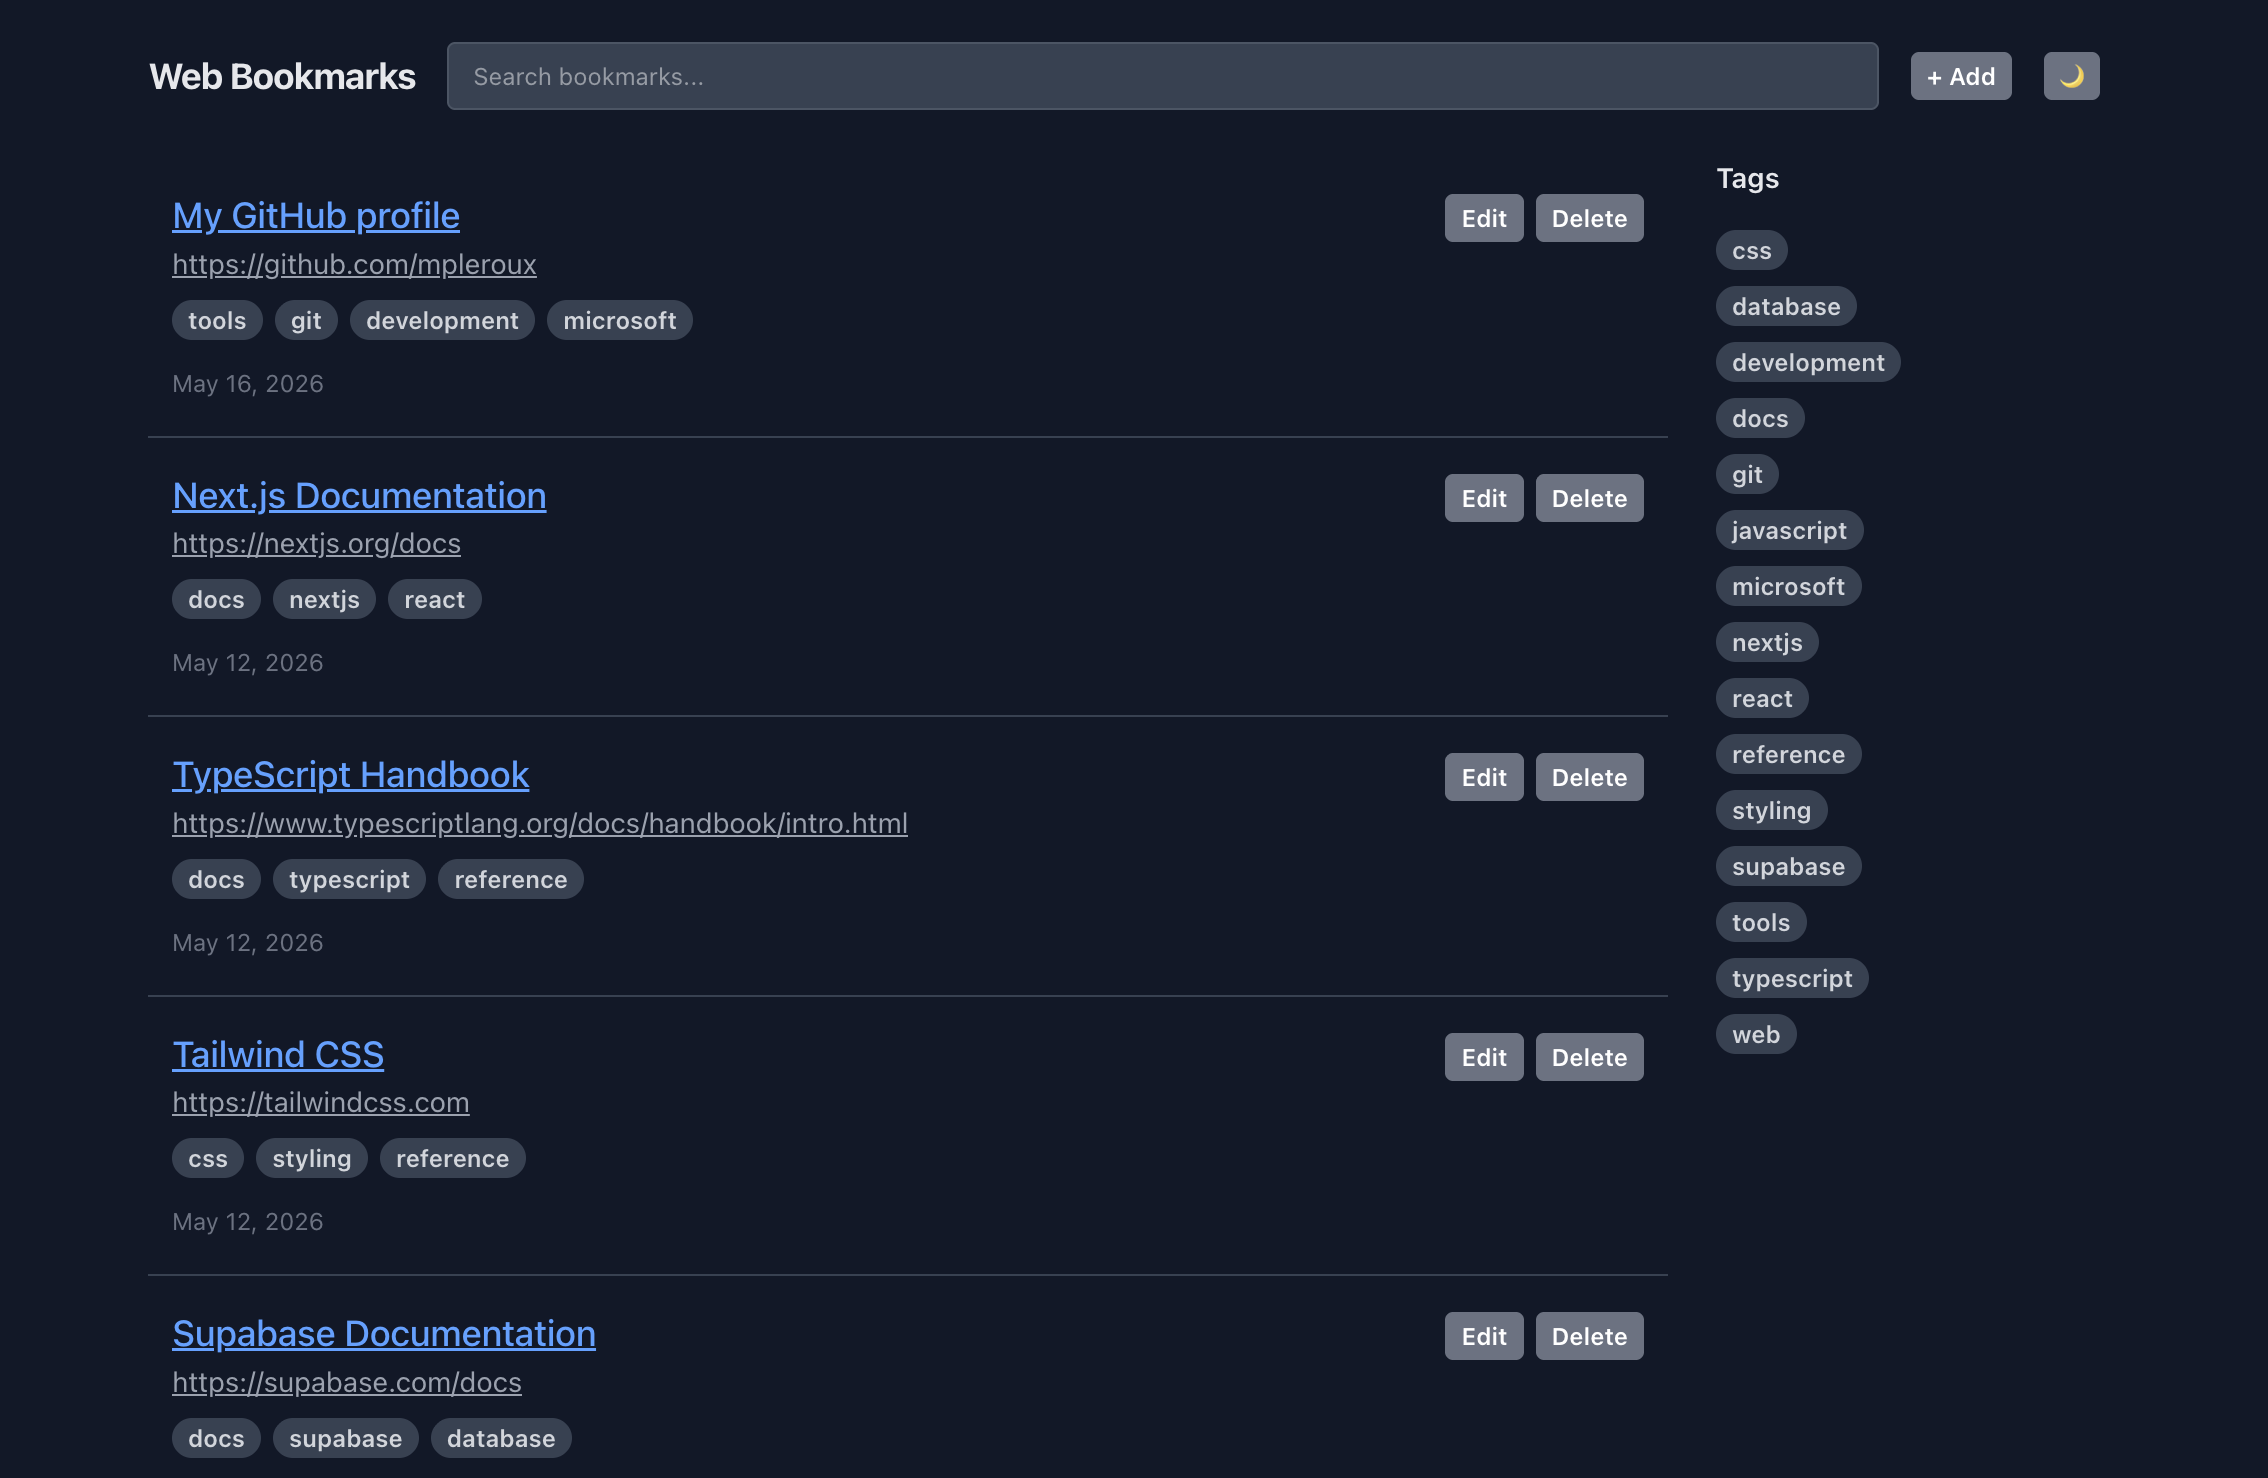
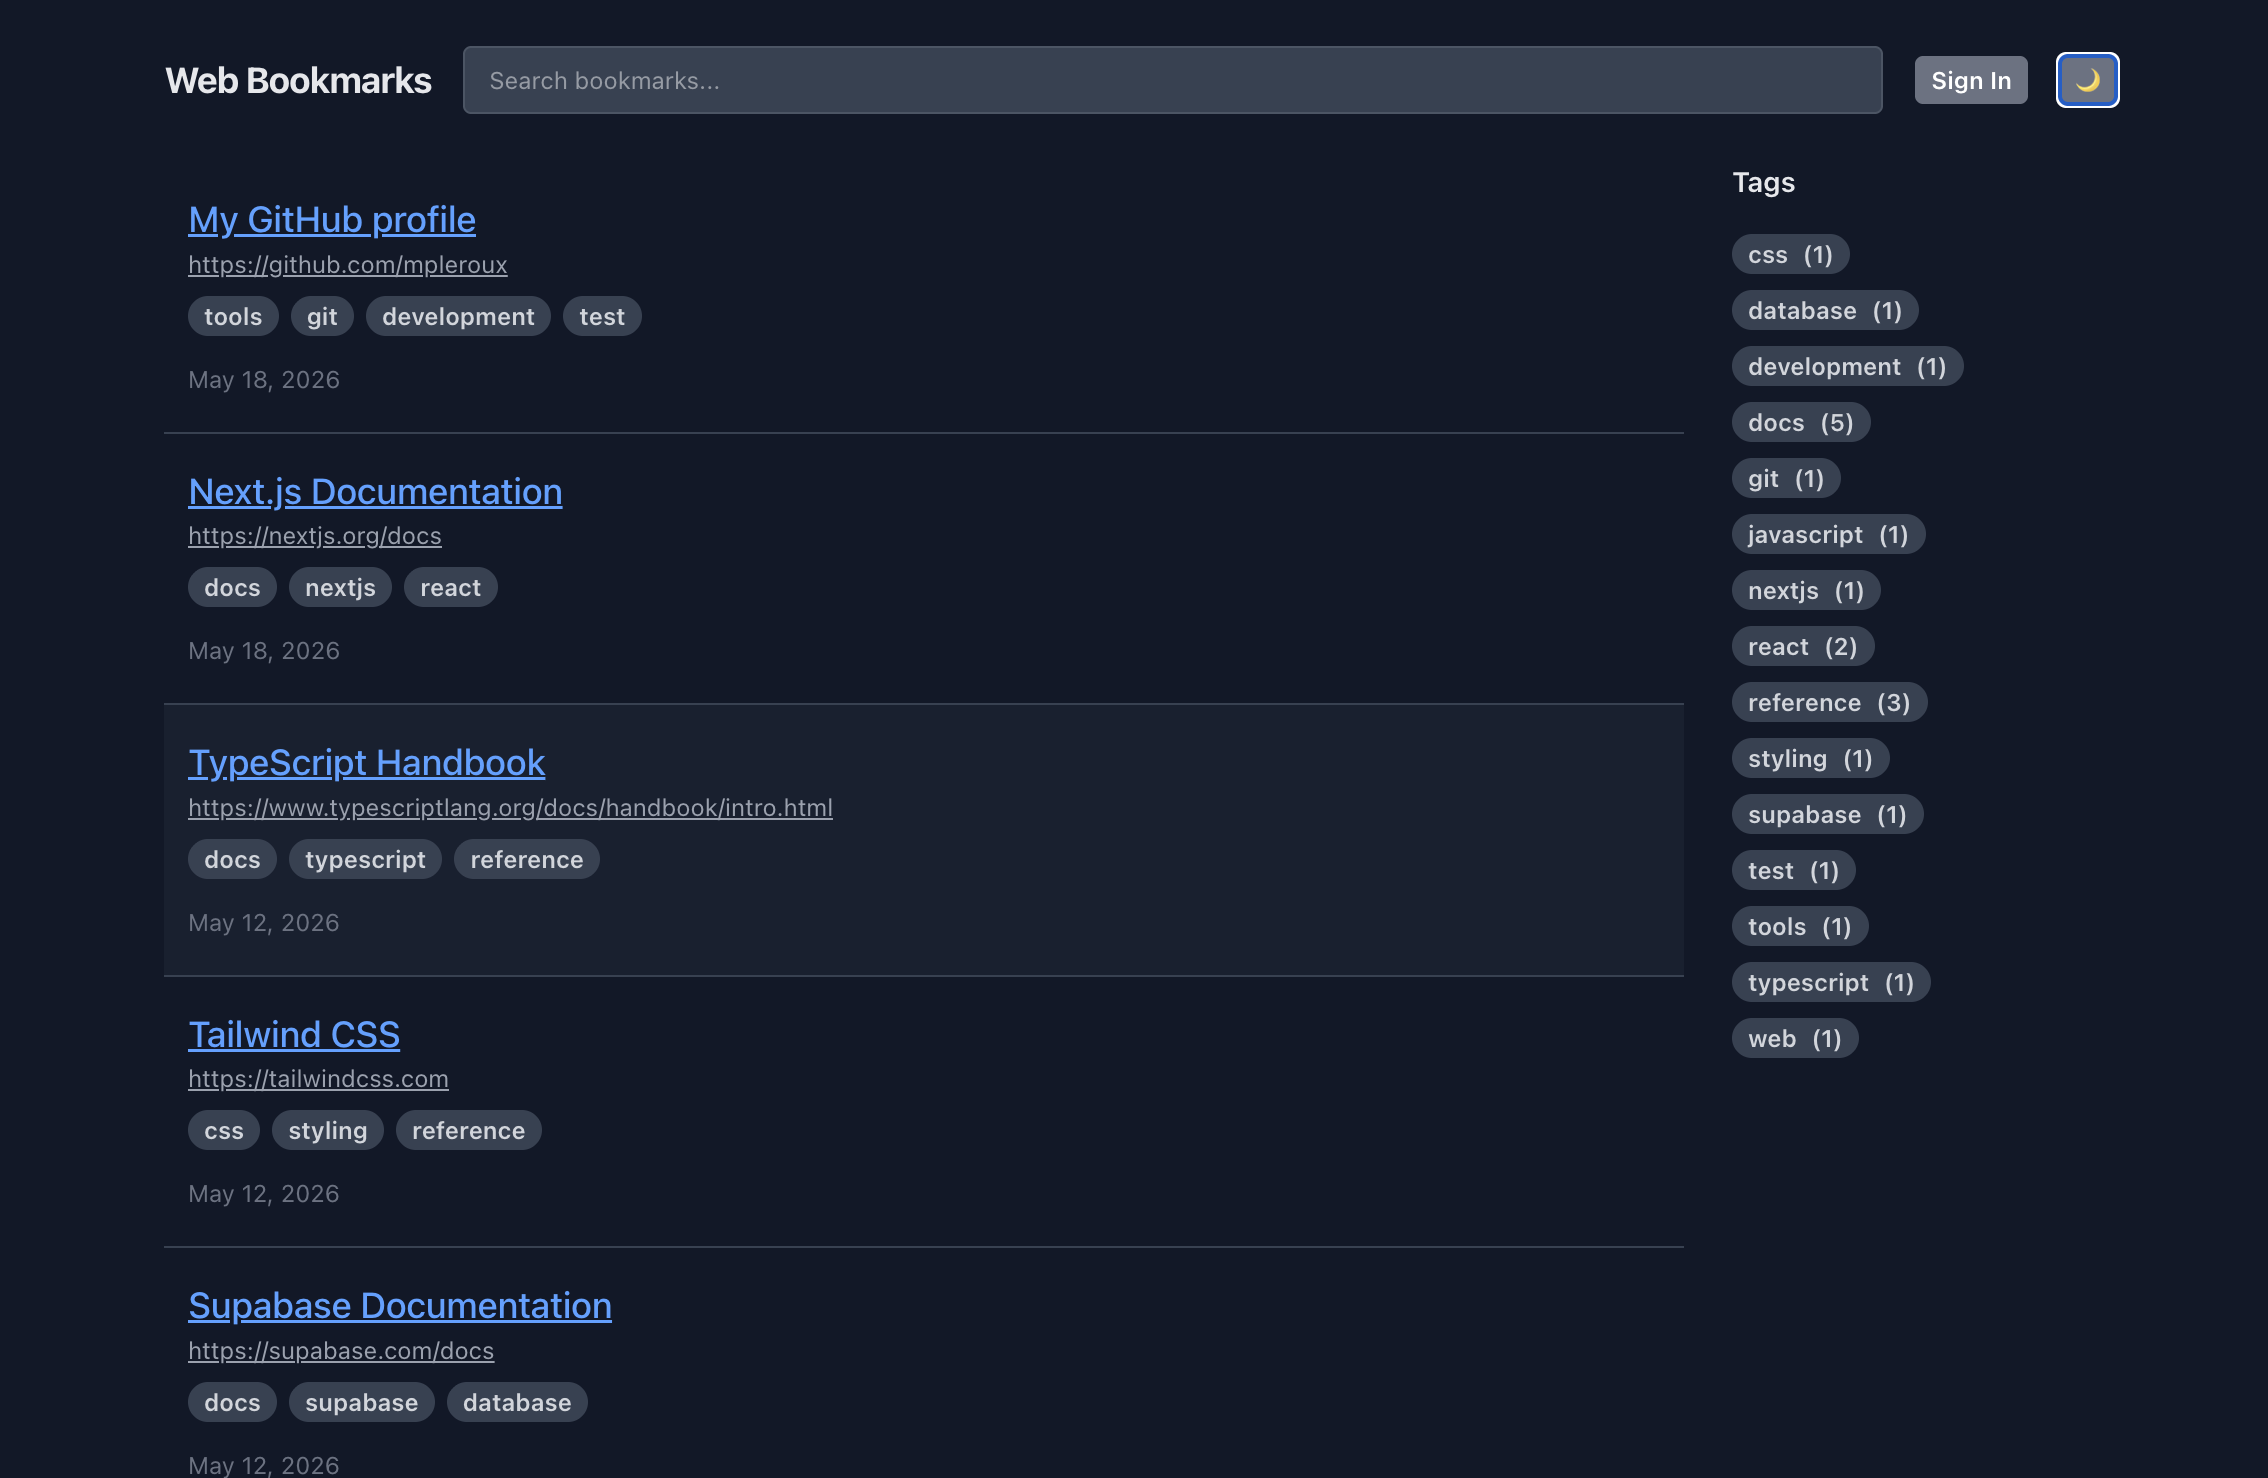
Update screenshot, add Mermaid diagram

diff --git a/README.md b/README.md
@@ -27,6 +27,39 @@ npm install
 npm run dev # http://localhost:3000
 ```
 
+## Architecture
+
+```mermaid
+graph TD
+    RootLayout["RootLayout<br/>(ThemeProvider, AuthProvider,<br/>BookmarksProvider)"]
+    LoginPage["LoginPage<br/>(Sign In Form)"]
+    HomePage["HomePage<br/>(Main Page)"]
+    Header["Header<br/>(Navigation & Actions)"]
+    SearchBar["SearchBar<br/>(Filter by Text)"]
+    ThemeToggle["ThemeToggle<br/>(Light / Dark Mode)"]
+    BookmarkList["BookmarkList<br/>(Filtered Results)"]
+    BookmarkCard["BookmarkCard<br/>(Single Bookmark)"]
+    TagSidebar["TagSidebar<br/>(Desktop Tag Filters)"]
+    TagModal["TagModal<br/>(Mobile Tag Filters)"]
+    AddEditBookmarkModal["AddEditBookmarkModal<br/>(Add / Edit Form)"]
+    DeleteConfirmationModal["DeleteConfirmationModal<br/>(Confirm Delete)"]
+    Modal["Modal<br/>(Reusable Overlay)"]
+
+    RootLayout --> LoginPage
+    RootLayout --> HomePage
+    HomePage --> Header
+    HomePage --> BookmarkList
+    HomePage --> TagSidebar
+    HomePage --> TagModal
+    HomePage --> AddEditBookmarkModal
+    HomePage --> DeleteConfirmationModal
+    Header --> SearchBar
+    Header --> ThemeToggle
+    BookmarkList --> BookmarkCard
+    AddEditBookmarkModal --> Modal
+    DeleteConfirmationModal --> Modal
+```
+
 ## Screenshot
 
 <img src="./public/screenshot.png" width="400" alt="Screenshot of web bookmarks">
